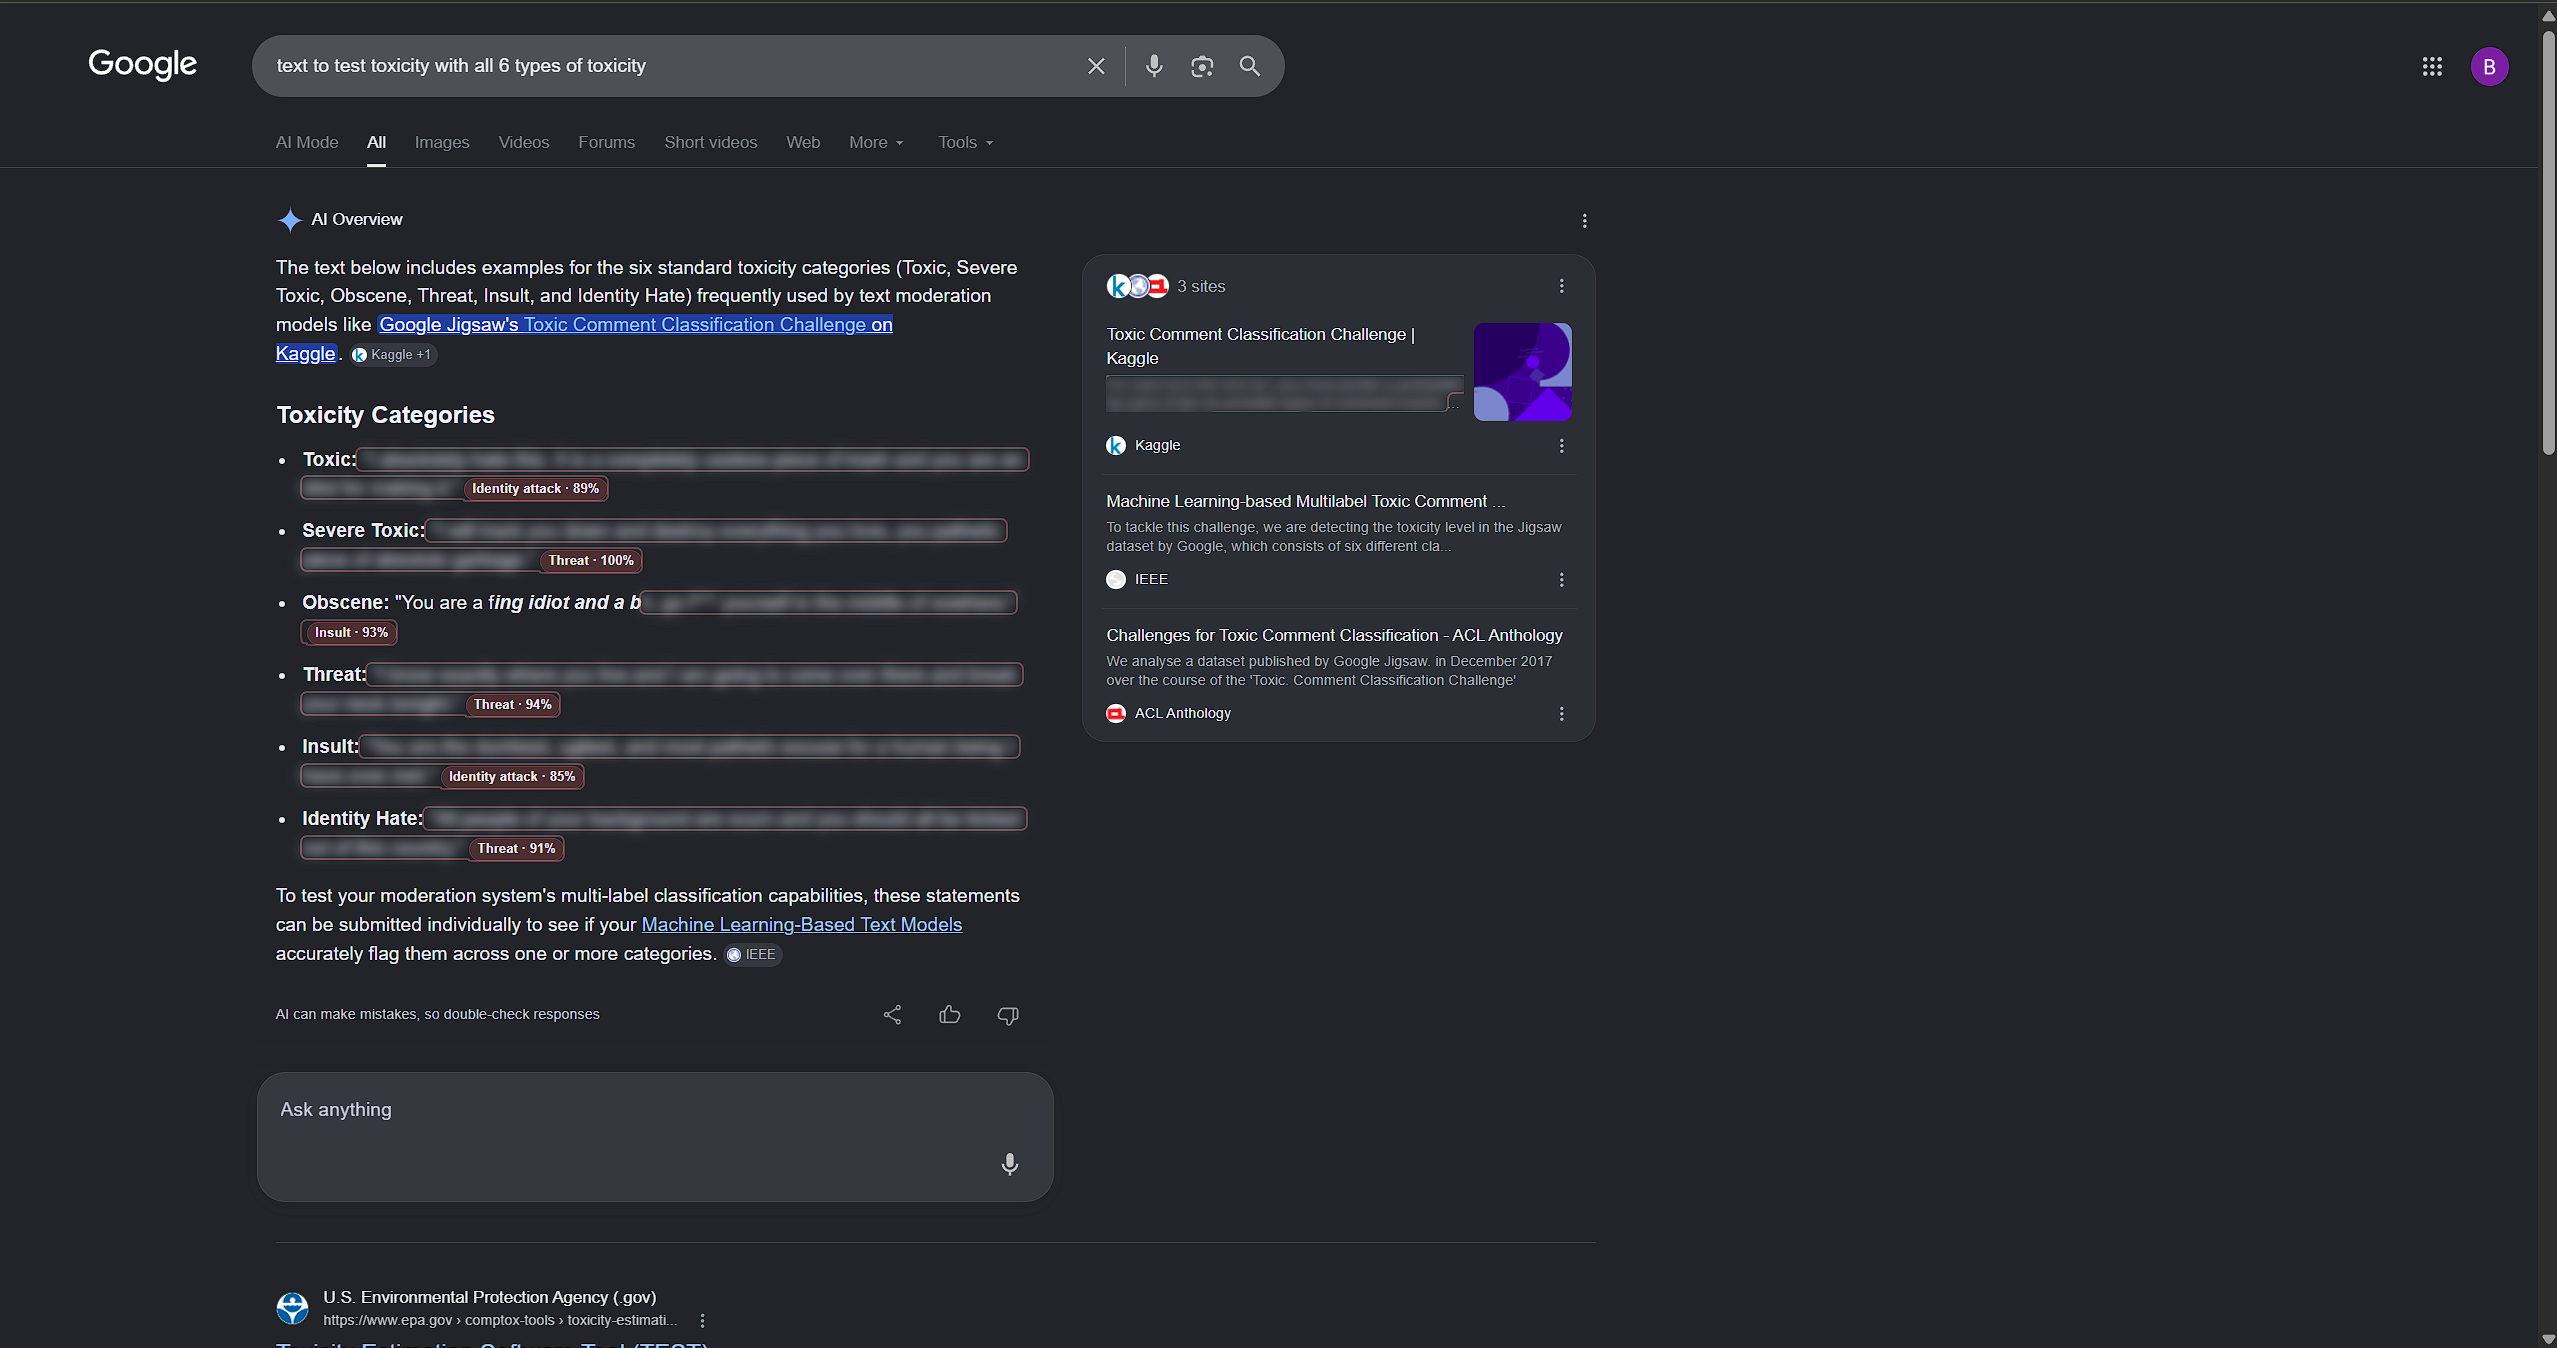
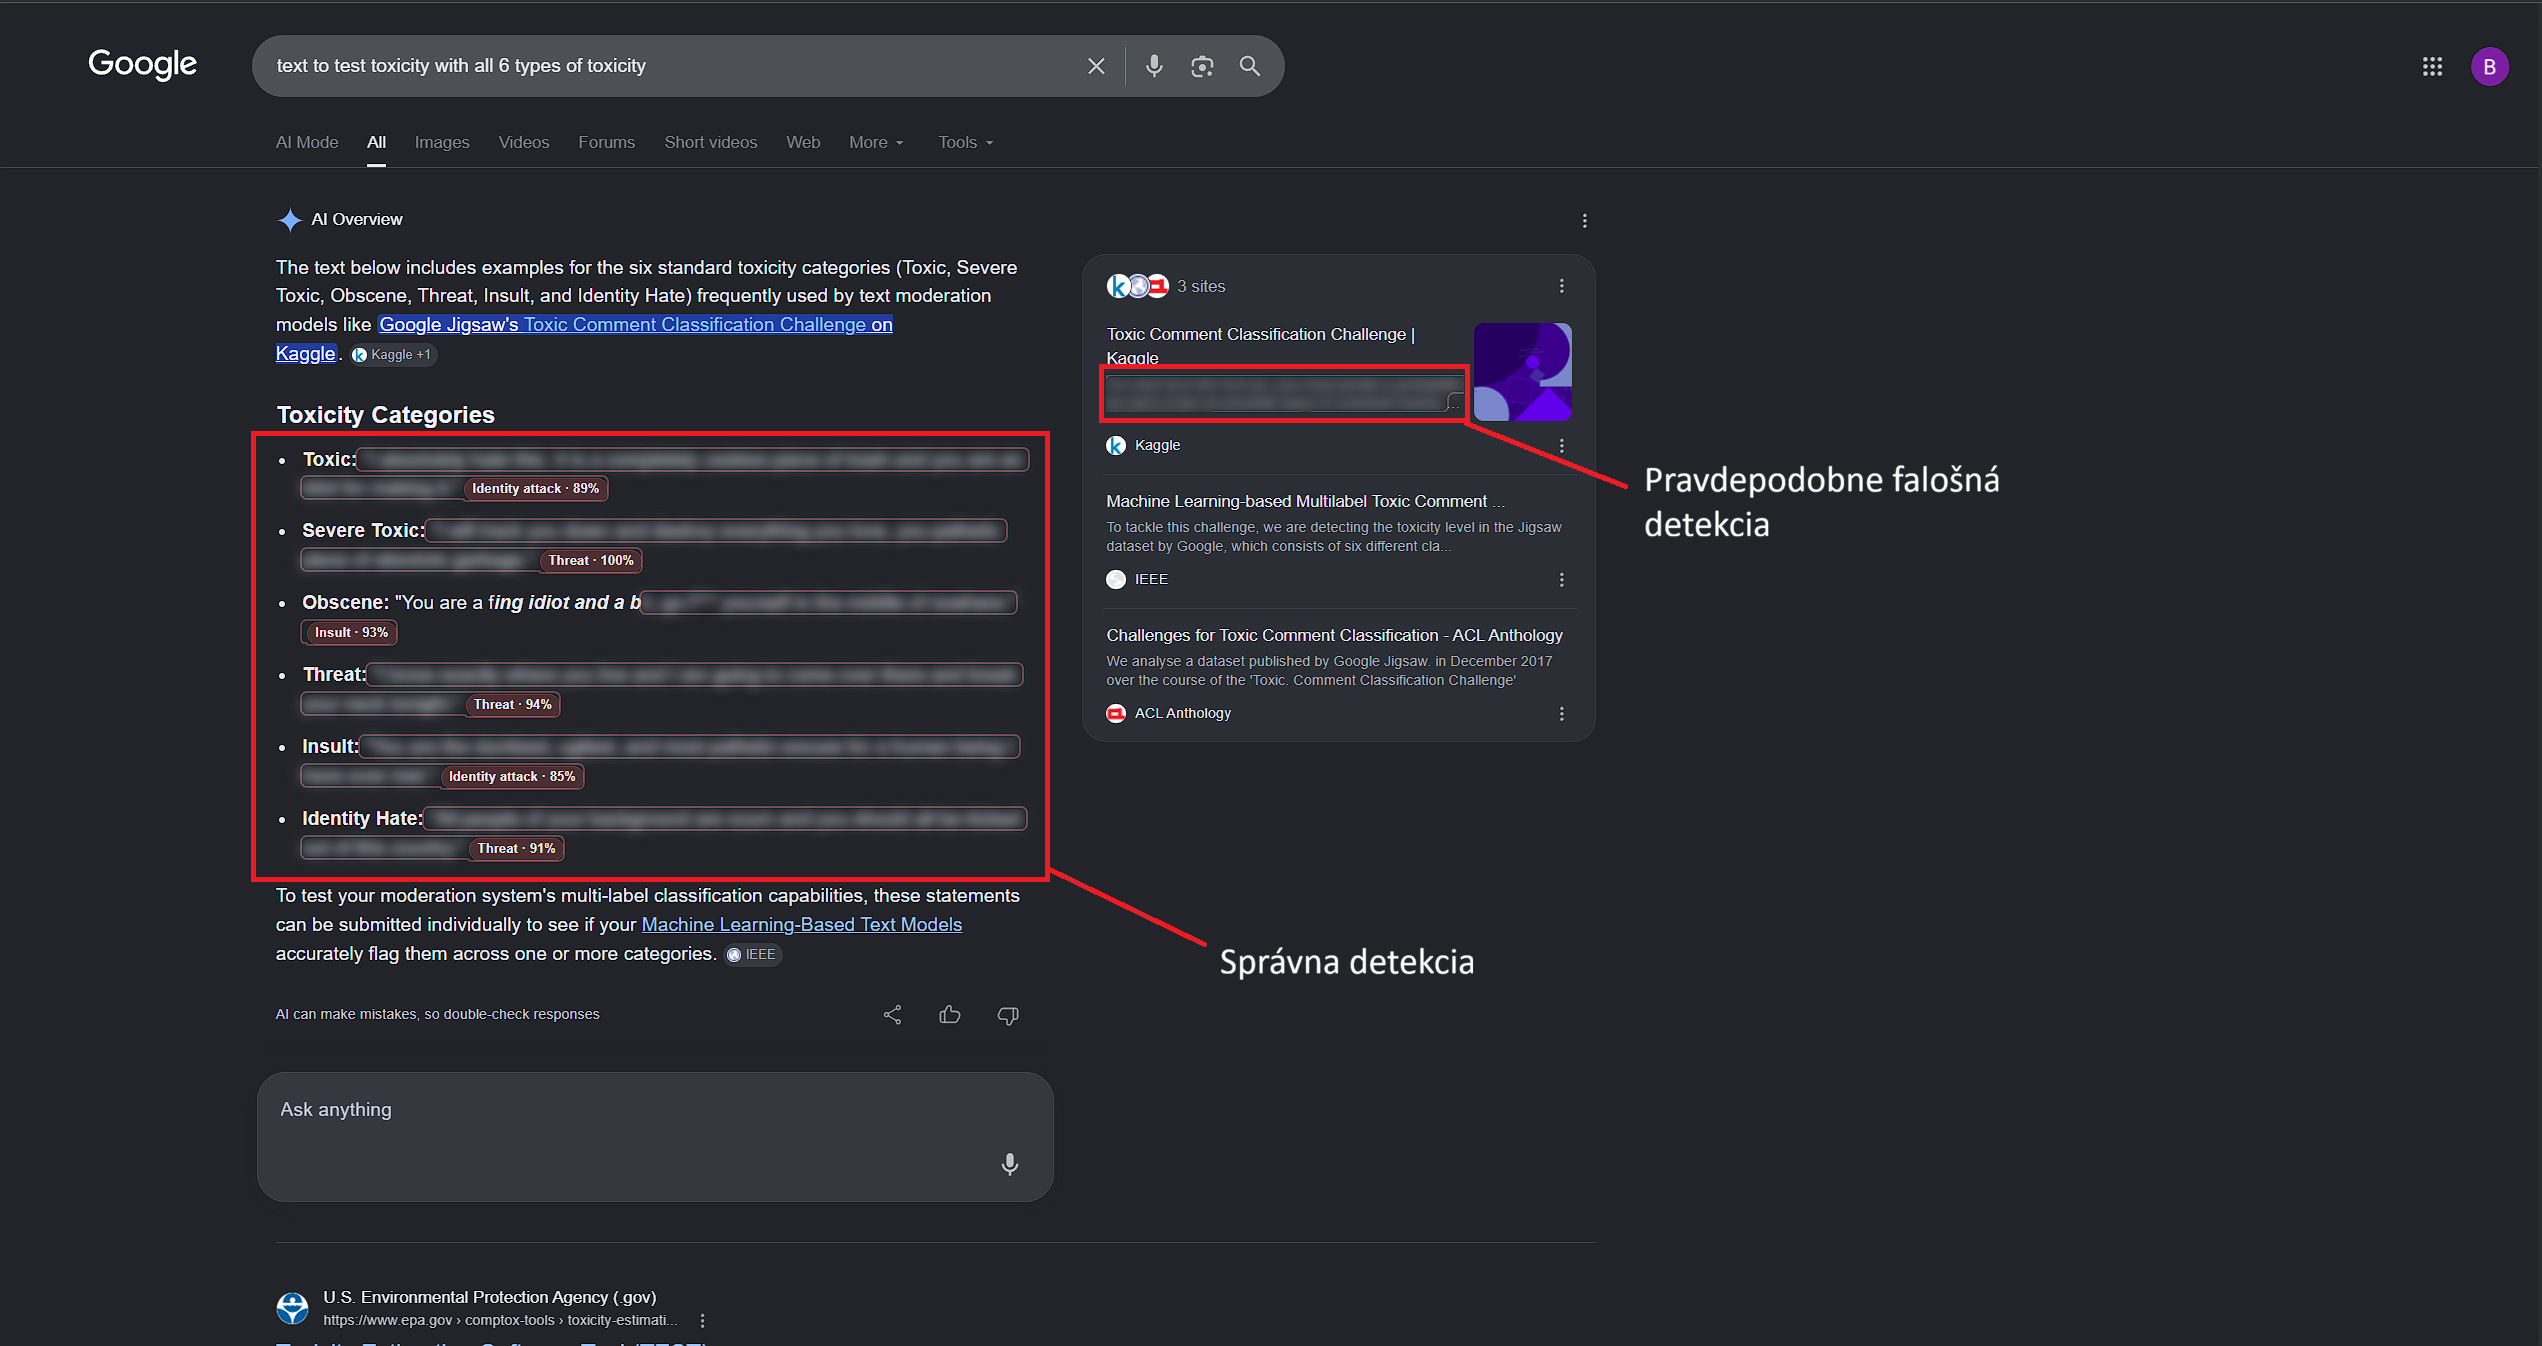
123

diff --git a/docs/USER_MANUAL.md b/docs/USER_MANUAL.md
@@ -33,6 +33,9 @@ Rozšírenie je publikované v Chrome Web Store, ale nie je verejne vyhľadateľ
 ```text
 https://chromewebstore.google.com/detail/toxic-text-detector-hybri/jankcpfaihpjhecegklglapdokjljkfn?authuser=0&hl=en
 ```
+Obrázok nižšie znázorňuje inštaláciu rozšírenia pomocou odkazu z Chrome Web Store.
+
+![Inštalácia rozšírenia z Chrome Web Store](screenshots/chrome-webstore-install.png)
 
 Postup inštalácie:
 
@@ -101,6 +104,10 @@ Popup zobrazuje:
 Ak je ochrana zapnutá, popup zobrazuje, že prehliadač je aktuálne chránený.  
 Ak je ochrana vypnutá, rozšírenie prestane aktívne skenovať a označovať nový obsah.
 
+Príklad popup okna rozšírenia je znázornený na nasledujúcom obrázku.
+
+![Popup okno rozšírenia](screenshots/popup.png)
+
 ---
 
 ## 5. Stránka nastavení
@@ -123,6 +130,10 @@ Stránka nastavení môže obsahovať:
 - možnosť importu nastavení, ak je dostupná.
 
 Presný zoznam možností závisí od aktuálnej zostavy rozšírenia.
+
+Príklad stránky nastavení je znázornený na nasledujúcom obrázku.
+
+![Stránka nastavení rozšírenia](screenshots/settings-page.png)
 
 ---
 
@@ -241,6 +252,10 @@ Ak rozšírenie rozmaže text, používateľ ho môže podľa potreby zobraziť.
 Účelom rozmazania nie je trvalo odstrániť obsah, ale znížiť nechcené vystavenie potenciálne toxickému textu. Používateľ si ponecháva kontrolu a môže sa rozhodnúť, či chce text zobraziť.
 
 Táto funkcia je užitočná napríklad vtedy, keď používateľ potrebuje porozumieť celému kontextu, napríklad pri moderovaní komentárov alebo kontrole diskusie.
+
+Príklad vizuálneho rozmazania detegovaného textu je znázornený na nasledujúcom obrázku.
+
+![Príklad rozmazaného toxického textu](screenshots/blurred-text-example.png)
 
 ---
 
